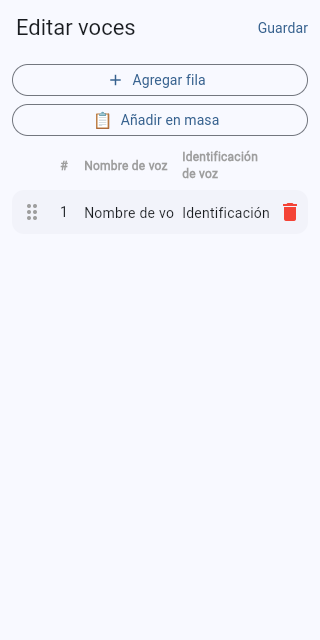
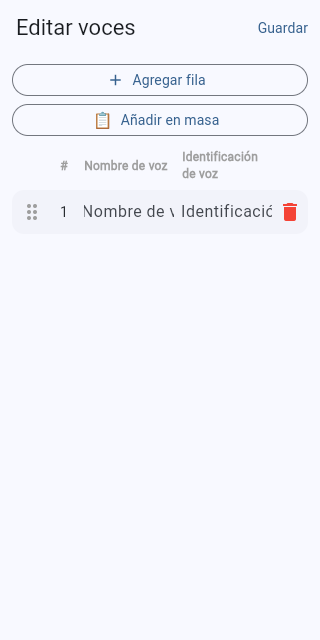
fix(ui): preserve Material voice hint styling
Match the native InputDecoration hint style in the constrained static labels.

Changed region(s): [[0.25, 0.3125, 0.8438, 0.3438]]

diff --git a/tests/task_flow/voice_editor_page_constrained_hints_test.dart b/tests/task_flow/voice_editor_page_constrained_hints_test.dart
@@ -1,5 +1,4 @@
 import 'package:flutter/material.dart';
-import 'package:flutter/rendering.dart';
 import 'package:flutter_test/flutter_test.dart';
 import 'package:stroom/l10n/app_localizations.dart';
 import 'package:stroom/models/tts_models.dart';
@@ -16,8 +15,10 @@ void main() {
   }) async {
     tester.view.devicePixelRatio = 1;
     tester.view.physicalSize = size;
+    tester.platformDispatcher.textScaleFactorTestValue = 1;
     addTearDown(tester.view.resetPhysicalSize);
     addTearDown(tester.view.resetDevicePixelRatio);
+    addTearDown(tester.platformDispatcher.clearTextScaleFactorTestValue);
 
     await tester.pumpWidget(
       MaterialApp(
@@ -47,6 +48,11 @@ void main() {
         (widget) => widget is ConstrainedText && widget.data == hint,
       );
       expect(constrainedHint, findsOneWidget);
+      final theme = Theme.of(tester.element(constrainedHint));
+      final hintStyle = tester.widget<ConstrainedText>(constrainedHint).style!;
+      expect(hintStyle.fontSize, theme.textTheme.bodyLarge!.fontSize);
+      expect(hintStyle.fontWeight, theme.textTheme.bodyLarge!.fontWeight);
+      expect(hintStyle.color, theme.colorScheme.onSurfaceVariant);
       final field = find
           .ancestor(
             of: constrainedHint,
@@ -54,11 +60,13 @@ void main() {
           )
           .first;
       expect(tester.widget<TextField>(field).controller!.text, isEmpty);
-      final paragraph = tester.renderObject<RenderParagraph>(
-        find.descendant(of: constrainedHint, matching: find.byType(RichText)),
-      );
+      final naturalText = TextPainter(
+        text: TextSpan(text: hint, style: hintStyle),
+        textDirection: Directionality.of(tester.element(constrainedHint)),
+        textScaler: MediaQuery.textScalerOf(tester.element(constrainedHint)),
+      )..layout();
       expect(
-        paragraph.size.width,
+        naturalText.width,
         greaterThan(tester.getSize(constrainedHint).width),
         reason: 'the complete localized hint is wider than its finite slot',
       );
@@ -86,7 +94,9 @@ void main() {
     await pumpVoiceEditor(
       tester,
       locale: const Locale('es', 'ES'),
-      size: const Size(800, 640),
+      // The widget test font uses fixed-width Ahem glyphs; 1000 dp gives the
+      // complete Spanish hints room to fit in this fixture.
+      size: const Size(1000, 640),
     );
 
     final l10n = await AppLocalizations.delegate.load(const Locale('es', 'ES'));
@@ -95,13 +105,20 @@ void main() {
         (widget) => widget is ConstrainedText && widget.data == hint,
       );
       expect(constrainedHint, findsOneWidget);
-      final paragraph = tester.renderObject<RenderParagraph>(
-        find.descendant(of: constrainedHint, matching: find.byType(RichText)),
-      );
+      final theme = Theme.of(tester.element(constrainedHint));
+      final hintStyle = tester.widget<ConstrainedText>(constrainedHint).style!;
+      expect(hintStyle.fontSize, theme.textTheme.bodyLarge!.fontSize);
+      expect(hintStyle.fontWeight, theme.textTheme.bodyLarge!.fontWeight);
+      expect(hintStyle.color, theme.colorScheme.onSurfaceVariant);
+      final naturalText = TextPainter(
+        text: TextSpan(text: hint, style: hintStyle),
+        textDirection: Directionality.of(tester.element(constrainedHint)),
+        textScaler: MediaQuery.textScalerOf(tester.element(constrainedHint)),
+      )..layout();
       expect(
-        paragraph.size.width,
-        closeTo(tester.getSize(constrainedHint).width, 0.01),
-        reason: 'a fitting hint keeps its natural stationary width',
+        naturalText.width,
+        lessThanOrEqualTo(tester.getSize(constrainedHint).width),
+        reason: 'the complete localized hint fits in its slot and stays still',
       );
     }
 

diff --git a/lib/pages/voice_editor_page.dart b/lib/pages/voice_editor_page.dart
@@ -373,6 +373,21 @@ class _VoiceEditorPageState extends State<VoiceEditorPage> {
   Widget _buildRow(int index) {
     final l10n = AppLocalizations.of(context)!;
     final isDuplicate = _findDuplicateIndices(index).isNotEmpty;
+    final theme = Theme.of(context);
+    final hintStyle = (theme.useMaterial3
+            ? theme.textTheme.bodyLarge!
+            : theme.textTheme.titleMedium!)
+        .copyWith(
+          color: theme.useMaterial3
+              ? theme.colorScheme.onSurfaceVariant
+              : theme.hintColor,
+        )
+        .merge(
+          WidgetStateProperty.resolveAs(
+            theme.inputDecorationTheme.hintStyle,
+            const <WidgetState>{},
+          ),
+        );
 
     return Card(
       key: ValueKey('voice_row_$index'),
@@ -404,7 +419,11 @@ class _VoiceEditorPageState extends State<VoiceEditorPage> {
               child: TextField(
                 controller: _nameCtrls[index],
                 decoration: InputDecoration(
-                  hint: ConstrainedText(l10n.voiceName, maxLines: 1),
+                  hint: ConstrainedText(
+                    l10n.voiceName,
+                    style: hintStyle,
+                    maxLines: 1,
+                  ),
                   border: InputBorder.none,
                   isDense: true,
                   contentPadding: EdgeInsets.symmetric(vertical: 8),
@@ -418,7 +437,11 @@ class _VoiceEditorPageState extends State<VoiceEditorPage> {
                 controller: _idCtrls[index],
                 focusNode: _idFocusNodes[index],
                 decoration: InputDecoration(
-                  hint: ConstrainedText(l10n.voiceId, maxLines: 1),
+                  hint: ConstrainedText(
+                    l10n.voiceId,
+                    style: hintStyle,
+                    maxLines: 1,
+                  ),
                   border: InputBorder.none,
                   isDense: true,
                   contentPadding: const EdgeInsets.symmetric(vertical: 8),
